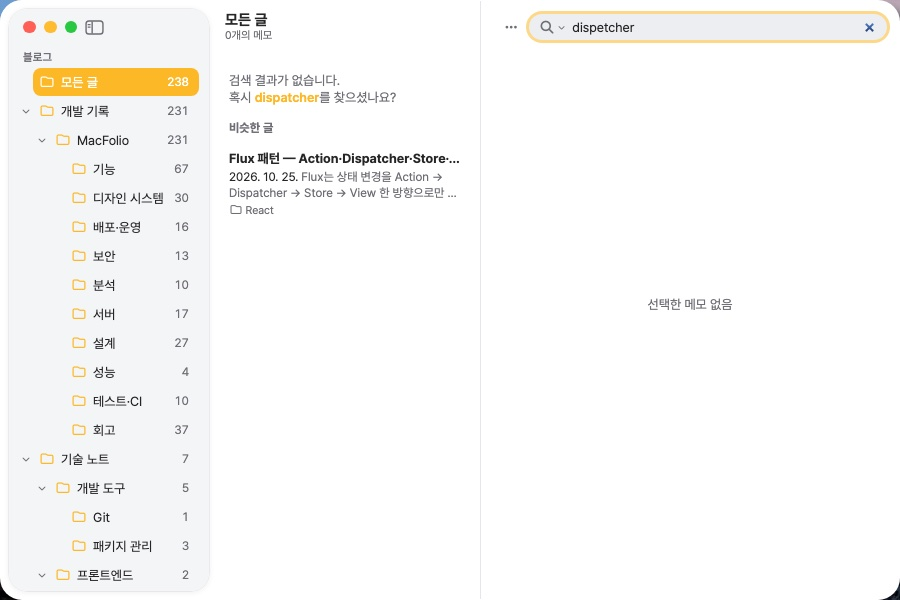
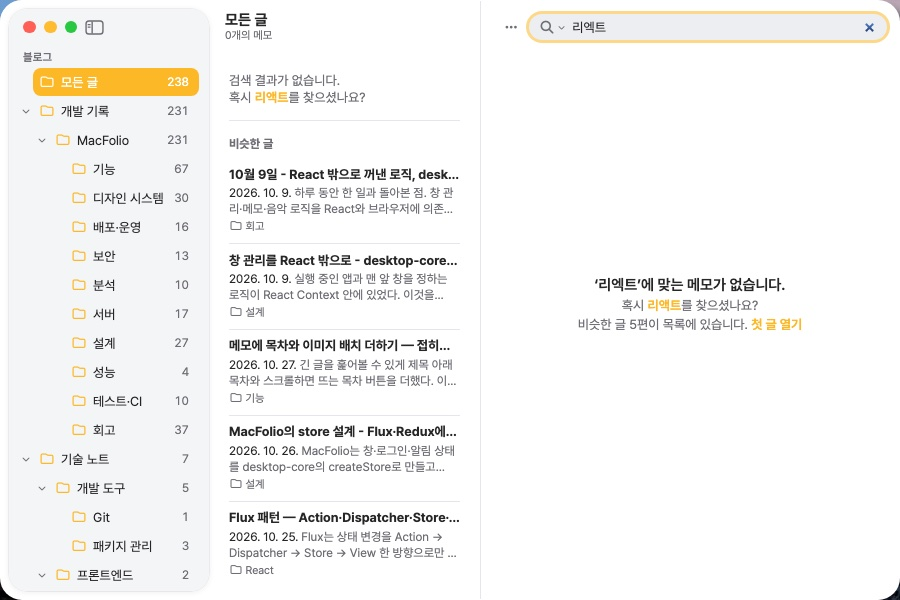
docs(memo): 결과가 없을 때 본문 칸 안내와 비슷한 글 순서, 본문에만 있는 오타의 고친 검색어를 메모 검색 절에 적는다

diff --git a/apps/react/src/apps/memo/content/notes-polish.md b/apps/react/src/apps/memo/content/notes-polish.md
@@ -175,9 +175,13 @@ registry.set('memo-find-current', new Highlight(...(current >= 0 ? [ranges[curre
 
 </details>
 
-![결과가 없을 때의 메모 목록](./images/notes-polish-search-similar.jpg '데스크톱 메모에서 dispatcher를 한 글자 틀리게 적어 찾은 화면. 목록 맨 위에 왼쪽 정렬로 "검색 결과가 없습니다."와 "혹시 dispatcher를 찾으셨나요?"가 있고, 그 아래 "비슷한 글" 머리 밑에 Flux 패턴 글이 보통 메모 줄 모양으로 보인다. 본문 칸에는 "선택한 메모 없음"')
+![결과가 없을 때의 메모 목록](./images/notes-polish-search-similar.jpg '데스크톱 메모에서 리액트를 한 글자 틀리게 적어 찾은 화면. 목록 맨 위에 "검색 결과가 없습니다."와 "혹시 리액트를 찾으셨나요?", "비슷한 글" 머리 밑에 제목에 React가 있는 글 두 편이 먼저 보인다. 본문 칸 가운데에는 검색어에 맞는 메모가 없다는 안내와 고친 검색어, "비슷한 글 5편이 목록에 있습니다. 첫 글 열기"')
 
-목록은 보통 목록과 같은 부품으로 그린다. 안내 두 줄은 목록 왼쪽 끝에 맞추고, 고친 검색어는 메모 강조색 글자 링크로, 비슷한 글은 날짜 묶음 머리와 같은 모양의 '비슷한 글' 머리 아래 보통 메모 줄(`NoteItem`)로 보인다. 첫 글을 저절로 열지 않고 본문 칸에는 '선택한 메모 없음'을 보인다. 고친 검색어를 누르면 그 검색어로 다시 찾고, 비슷한 글을 누르면 검색어를 지우고 그 글을 연다. 휴대폰과 다크 모드도 같은 규칙이다.
+목록은 보통 목록과 같은 부품으로 그린다. 안내 두 줄은 목록 왼쪽 끝에 맞추고, 고친 검색어는 메모 강조색 글자 링크로, 비슷한 글은 날짜 묶음 머리와 같은 모양의 '비슷한 글' 머리 아래 보통 메모 줄(`NoteItem`)로 보인다. 고친 검색어가 있으면 비슷한 글은 그 검색어로 찾은 순서의 앞 5편이다. 없으면 철자가 비슷한 글을 비용 순서로, 비용이 같으면 제목 > 주소 > 태그 순서로 보인다.
+
+본문 칸 가운데에도 '‘검색어’에 맞는 메모가 없습니다.', 고친 검색어, '비슷한 글 N편이 목록에 있습니다.'와 첫 글 열기를 보인다. 처음에는 본문 칸에 '선택한 메모 없음'만 두었는데, 목록 칸의 추천을 보지 못하고 검색이 동작하지 않는다고 읽혔다. 휴대폰처럼 한 칸씩 볼 때는 목록 칸에 이미 보이므로 두지 않는다.
+
+결과가 있어도 낱말이 제목·주소·태그에는 없고 본문에서만 걸리면 목록 맨 위에 고친 검색어를 보인다. 이 글처럼 오타를 예로 적은 본문이 있으면 그 오타로 찾은 결과가 0편이 아니어서, 결과가 0편일 때만 추천하면 고친 검색어가 보이지 않는다. 고친 검색어를 누르면 그 검색어로 다시 찾고, 비슷한 글을 누르면 검색어를 지우고 그 글을 연다.
 
 ## 이미지: 캡션 수정, 내려받기, 드롭 위치 표시
 
